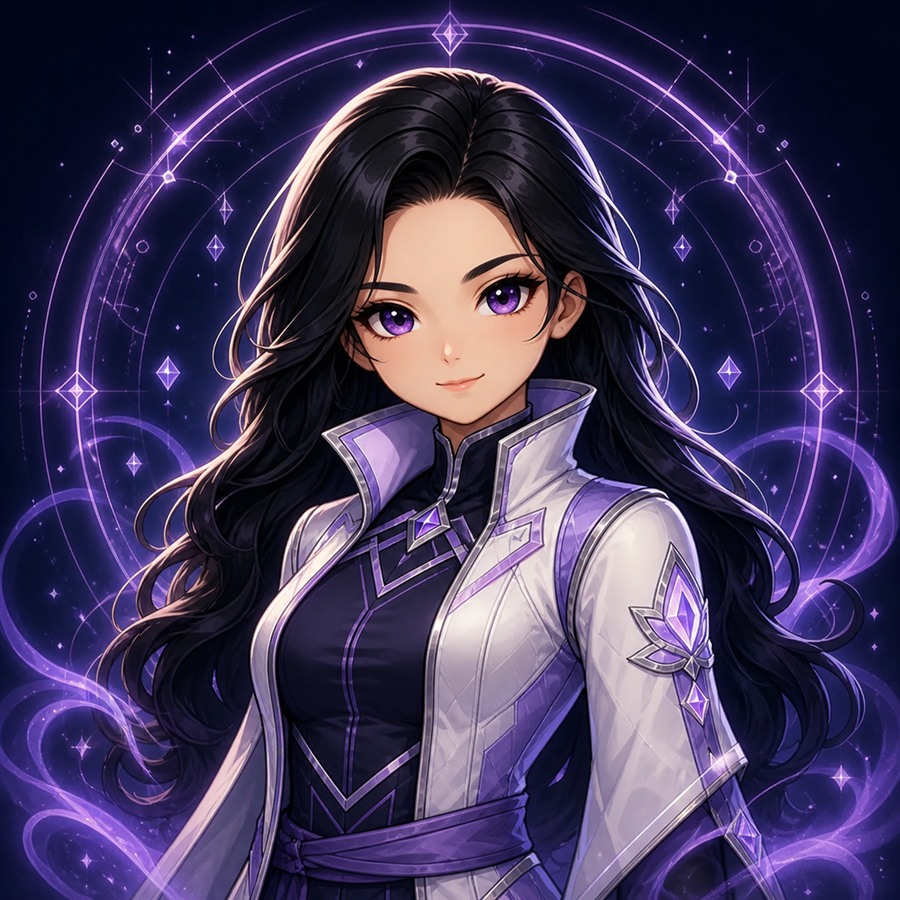
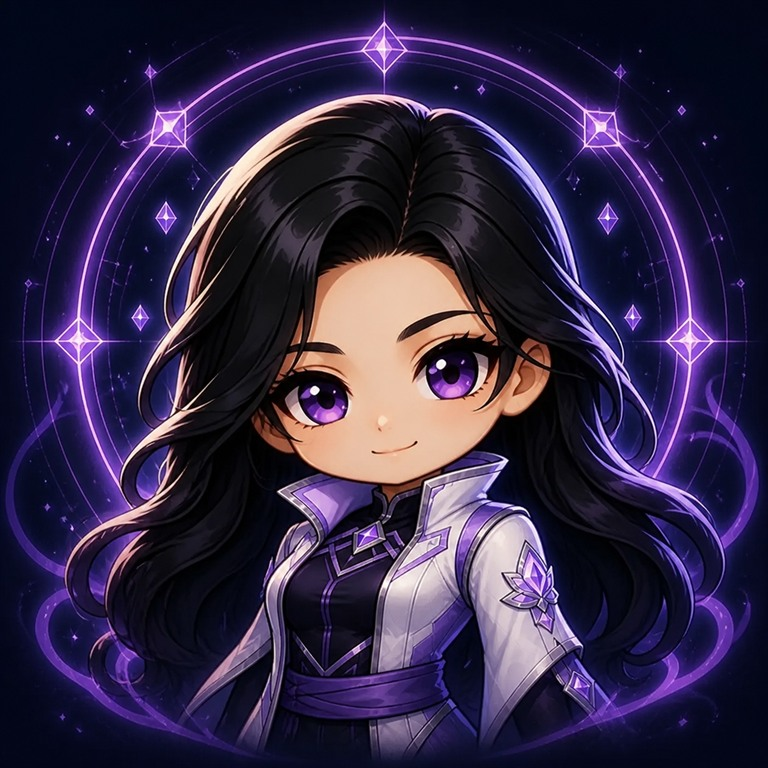
Prepare private Sites compatibility deployment
Add the Sites deployment wrapper and health endpoint while preserving the offline PWA. Cache the updated JPG companion portraits for offline use and include the approved Mira and Amara refinements.

diff --git a/build/sites-vite-plugin.ts b/build/sites-vite-plugin.ts
@@ -1,0 +1,40 @@
+import { access, cp, mkdir, rm } from 'node:fs/promises';
+import { resolve } from 'node:path';
+import type { Plugin } from 'vite';
+
+async function exists(path: string): Promise<boolean> {
+  try {
+    await access(path);
+    return true;
+  } catch (error) {
+    if ((error as NodeJS.ErrnoException).code === 'ENOENT') return false;
+    throw error;
+  }
+}
+
+export function sites(): Plugin {
+  let root = process.cwd();
+
+  return {
+    name: 'sites',
+    apply: 'build',
+    configResolved(config) {
+      root = config.root;
+    },
+    async closeBundle() {
+      const outputDirectory = resolve(root, 'dist', '.openai');
+      const hostingConfig = resolve(root, '.openai', 'hosting.json');
+      const drizzleSource = resolve(root, 'drizzle');
+
+      await rm(outputDirectory, { recursive: true, force: true });
+      await mkdir(outputDirectory, { recursive: true });
+
+      if (await exists(hostingConfig)) {
+        await cp(hostingConfig, resolve(outputDirectory, 'hosting.json'));
+      }
+      if (await exists(drizzleSource)) {
+        await cp(drizzleSource, resolve(outputDirectory, 'drizzle'), { recursive: true });
+      }
+    },
+  };
+}

diff --git a/vite.config.ts b/vite.config.ts
@@ -3,6 +3,7 @@ import react from '@vitejs/plugin-react';
 import { VitePWA } from 'vite-plugin-pwa';
 import path from 'node:path';
 import { fileURLToPath } from 'node:url';
+import { sites } from './build/sites-vite-plugin';
 
 const projectDirectory = path.dirname(fileURLToPath(import.meta.url));
 
@@ -42,13 +43,14 @@ export default defineConfig({
       },
       workbox: {
         cleanupOutdatedCaches: true,
-        globPatterns: ['**/*.{js,css,html,ico,png,webp,woff2,ttf}'],
+        globPatterns: ['**/*.{js,css,html,ico,jpg,jpeg,png,webp,woff2,ttf}'],
         navigateFallback: 'index.html',
       },
       devOptions: {
         enabled: true,
       },
     }),
+    sites(),
   ],
   resolve: {
     alias: {

diff --git a/worker/index.js b/worker/index.js
@@ -1,0 +1,23 @@
+const jsonHeaders = {
+  'cache-control': 'no-store',
+  'content-type': 'application/json; charset=utf-8',
+};
+
+export default {
+  async fetch(request, env) {
+    const url = new URL(request.url);
+
+    if (url.pathname === '/api/health') {
+      return new Response(
+        JSON.stringify({
+          ok: true,
+          service: 'the-system-sites-compatibility',
+          aiConfigured: Boolean(env.OPENAI_API_KEY),
+        }),
+        { headers: jsonHeaders },
+      );
+    }
+
+    return env.ASSETS.fetch(request);
+  },
+};

diff --git a/src/config/companions.ts b/src/config/companions.ts
@@ -371,7 +371,7 @@ export const COMPANIONS: CompanionDefinition[] = [
     personality:
       'Warm, perceptive, playfully romantic, and deeply respectful of boundaries. She celebrates brave honesty, never pressures unsafe contact, and treats self-respect as part of every healthy relationship.',
     accent: '#ff79b8',
-    image: 'companions/amara.webp',
+    image: 'companions/amara.jpg',
     categories: ['character'],
     stats: ['empathy'],
     messages: {
